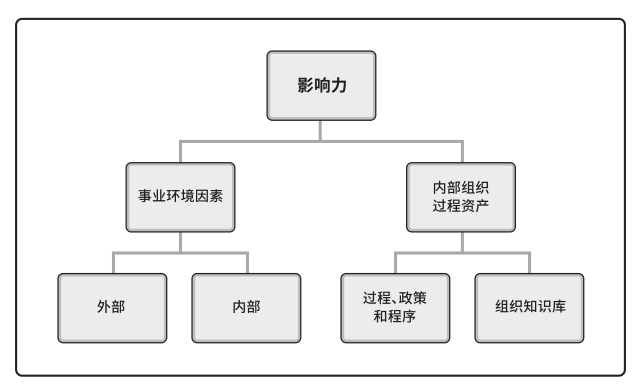
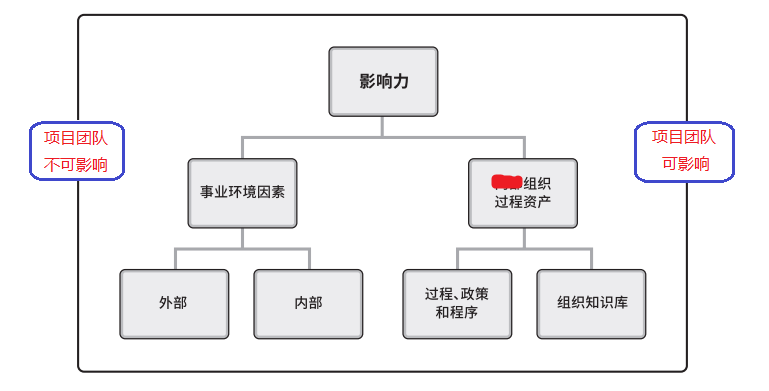
第二章 补充细节

Changed region(s): [[0.0, 0.0308, 0.9969, 0.9846]]

diff --git a/2. 项目运行环境/2.2 事业环境因素.md b/2. 项目运行环境/2.2 事业环境因素.md
@@ -1,0 +1,43 @@
+
+## 事业环境因素
+
+### 1. 事业环境因素的特点：
+1. 项目团队不能控制，将对项目产生影响、限制或指令作用的各种条件；
+2. 可能来自于组织内部和(或)外部；
+3. 可能会提高或限制项目管理的灵活性，并可能对项目结果产生**积极**或**消极**的影响；
+4. 是大多数规划过程的输入；
+
+
+### 2. 事业环境因素分为 *内因* 和 *外因*。
+
+#### 2.1 内因
+
+|序号| 内部因素 |描述|
+|:---:| --- |---|
+|1|组织文化、结构和治理|如：愿景、价值观、文化、道德、行为规范等|
+|2|设施和资源的地理分布|工厂位置、虚拟团队、共享系统和云计算|
+|3|基础设施|现有设备、信息技术硬件的可用性和功能|
+|4|信息技术软件|进度计划软件工具、配置管理系统等|
+|5|资源可用性|如：合同和采购制约因素等|
+|6|员工能力|现有人力资源的专业知识、技能、胜任力和特定知识|
+![](https://i.imgur.com/zrW93k0.png)
+
+
+#### 2.2 外因
+
+|序号| 外部因素 |描述|
+|:---:| --- |---|
+|1|市场条件|如：竞争对手、市场份额、品牌、商标|
+|2|社会和文化影响与问题|如：政治氛围、行为规范、道德等
+|3|法律限制|如：与安全、数据保护等有关的法律
+|4|商业数据库|如：标杆对照成果，标准化的成本估算数据、行业风险研究资料和风险数据库
+|5|学术研究|如：行业研究、标杆对照成果
+|6|政府或行业标准|如：与产品、生产、环境、质量、工艺相关的标准
+|7|财务考虑因素|如：货币汇率、利率、关税、地理位置等
+|8|物理环境因素|如：工作环境、天气、制约因素
+
+
+![](https://i.imgur.com/XNkyV9E.png)
+
+
+

diff --git a/2. 项目运行环境/2.3 组织过程资产.md b/2. 项目运行环境/2.3 组织过程资产.md
@@ -1,0 +1,20 @@
+
+## 组织过程资产(分为两大类)
+
+#### 1. 过程、政策和程序
+1. 启动和规划
+2. 执行和监控
+3. 收尾
+
+#### 2. 组织知识库
+
+>项目中的经验教训，应该向所有的相关方收集，这样才能保证所有的经验教训都能被记录。
+
+|序号|类型|描述|
+|:---:|---|---|
+|1|配置管理知识库|包括软硬件版本，以及所有执行组织的标准、政策、程序和任何项目文件的基准|
+|2|财务数据库|如：人工时、实际成本、预算和成本超支等方面|
+|3|历史信息与经验教训知识库(重要)|如项目记录与文件|
+|4|问题与缺陷管理数据库|包括问题与缺陷的状态、控制信息等|
+|5|测量指标数据库|用来收集与提供过程和产品的测量数据|
+|6|以往项目的项目档案(重要)|如范围、成本、进度与绩效测量基准|

diff --git a/2. 项目运行环境/2.1 概述.md b/2. 项目运行环境/2.1 概述.md
@@ -1,0 +1,12 @@
+
+## 概述
+
+#### 1. 影响项目的因素？
+
+|序号|分类|描述|
+|:---:|---|---|
+|1|事业环境因素(EEF)|一般指企业外部影响因素，项目团队不可影响；
+|2|组织过程资产(OPA) | 源自于内部，项目团队可影响；
+|3|组织系统|-|
+
+![项目影响](https://i.imgur.com/427mpZn.png)

diff --git a/2. 项目运行环境/2.4 组织系统.md b/2. 项目运行环境/2.4 组织系统.md
@@ -1,0 +1,4 @@
+
+
+
+## 组织系统
